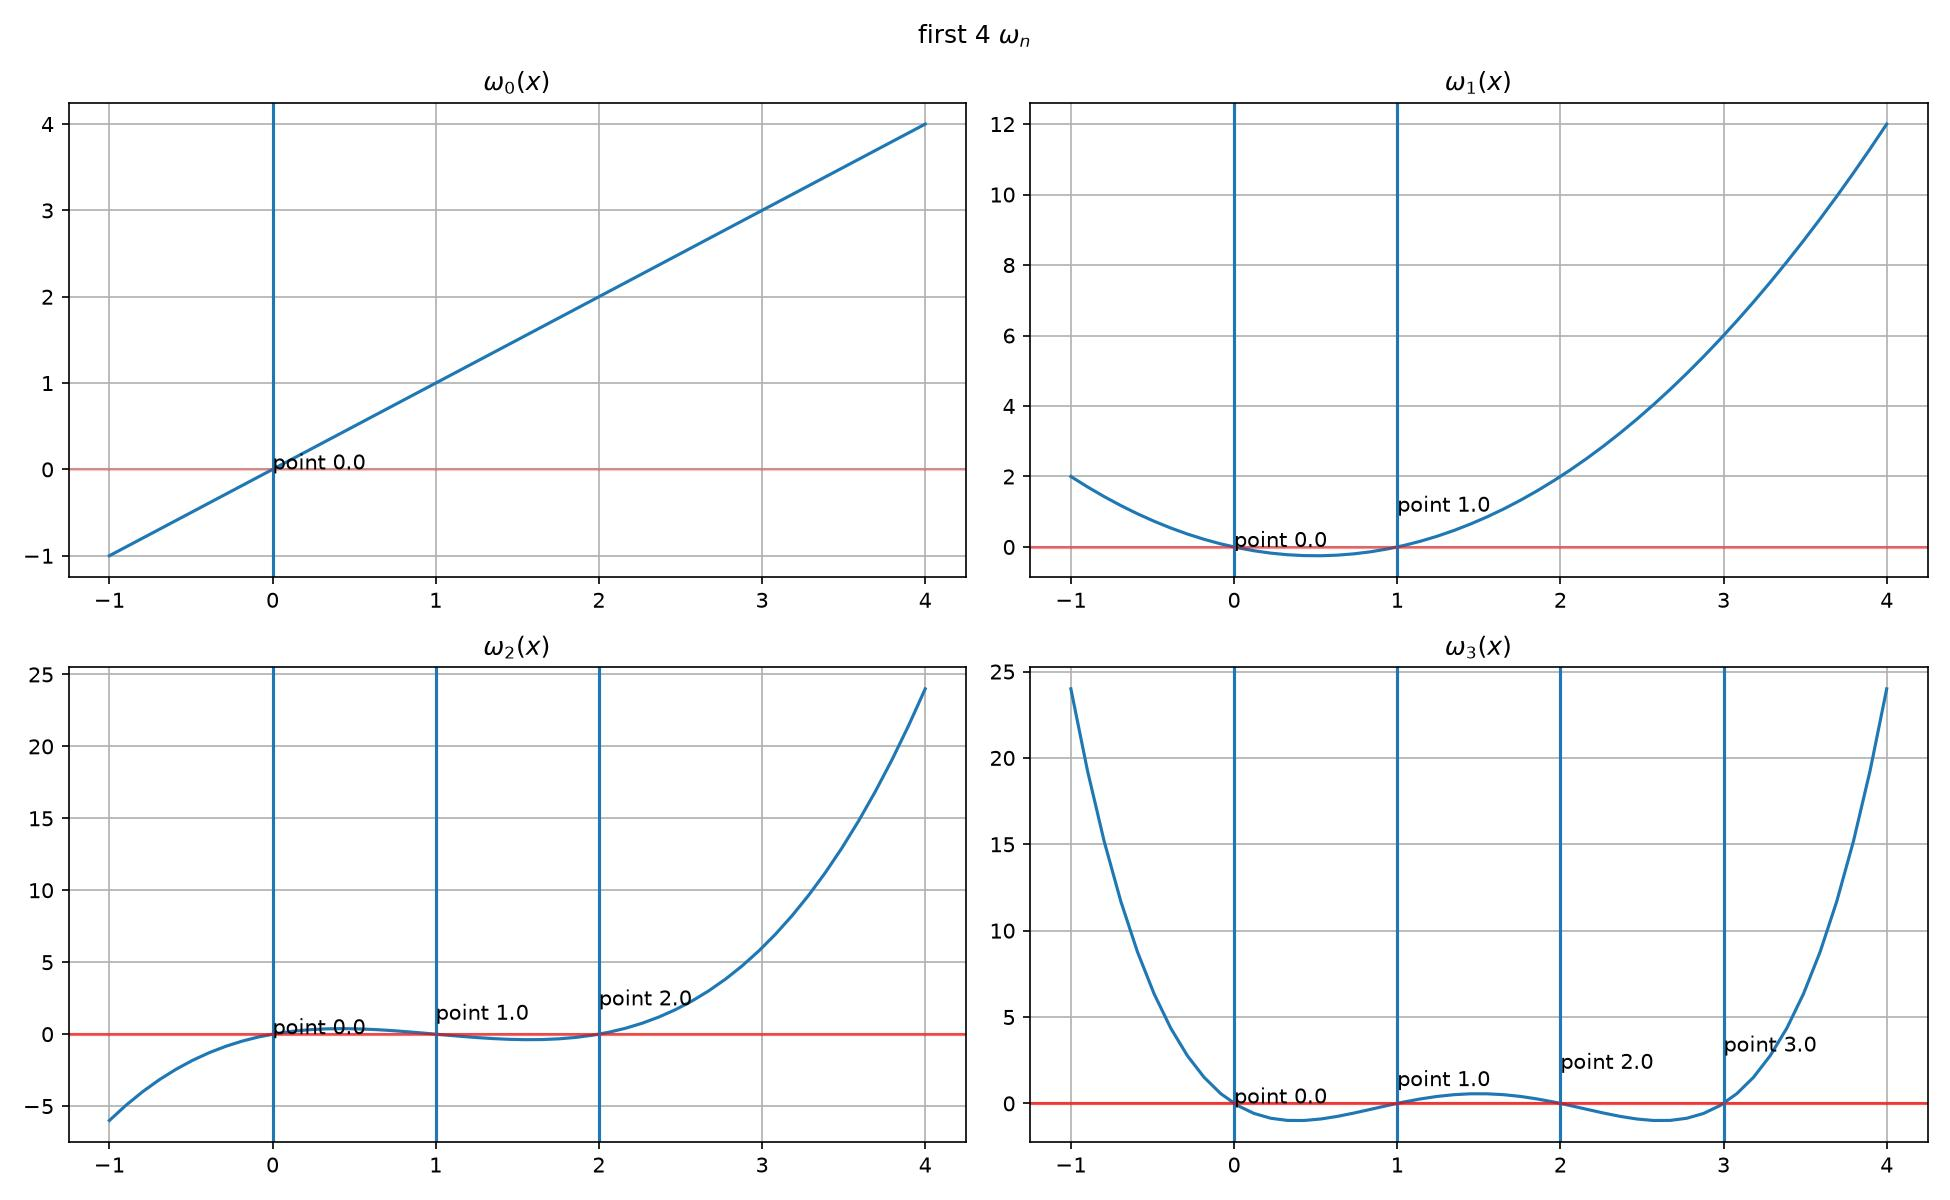
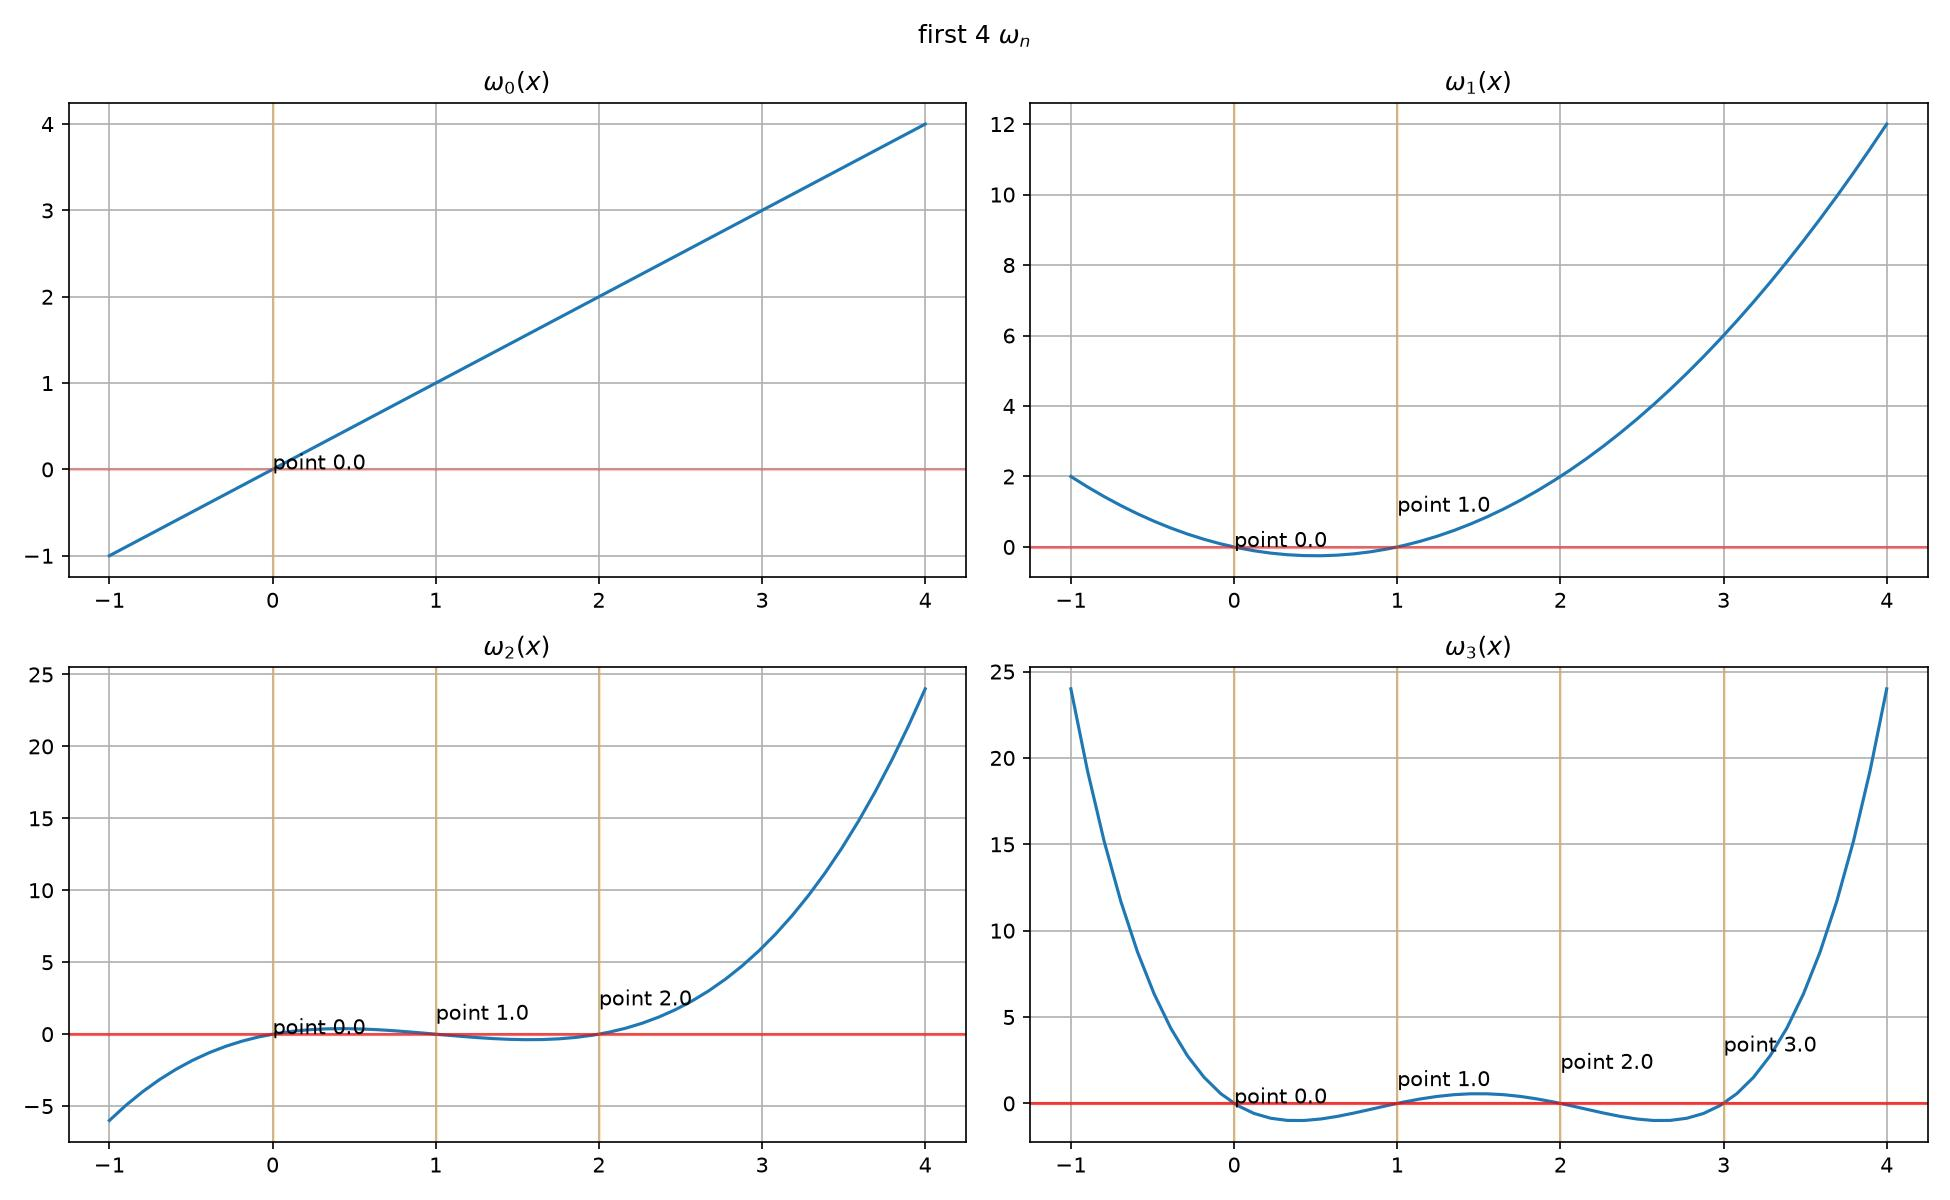
bug fix for plot function

diff --git a/qs.py b/qs.py
@@ -377,7 +377,7 @@ def plot_w(n=4):
     for size,axs in enumerate(ax):
         axs.plot(x,test(x,grid[0:size+1]))
         for i,point in enumerate(grid[:size+1]):
-            axs.axvline(point)
+            axs.axvline(point,color='orange',alpha=0.25)
             axs.axhline(0,color='red',alpha=0.25)
             axs.text(
                 x = point,
@@ -387,10 +387,10 @@ def plot_w(n=4):
         axs.grid()
 
         axs.set_title(fr"$\omega_{size}(x)$")
-        fig.suptitle(rf'first {n} $\omega_n$')
-        plt.tight_layout()
-        plt.savefig(f'iterative_results/w_{n-1}.jpg',dpi=150)
-        plt.show()
+    fig.suptitle(rf'first {n} $\omega_n$')
+    plt.tight_layout()
+    plt.savefig(f'iterative_results/w_{n-1}.jpg',dpi=150)
+    plt.show()
 
 def newton_term(f,x,grid,k):
     """
@@ -441,14 +441,13 @@ def plot_newton(n=6):
     plt.show()
 
 
-plot_newton(8)
+#plot_newton(8)
 
 from itertools import combinations
 
-def lagrange(grid,k):
+def lagrange_e(grid,k):
     """
-    Given a grid of points, return the kth lagrange polynomial
-    Return string polynomial expression in x for evaluation
+    Using symbolic expression, given a grid of points, return the kth second order lagrange polynomial 
     """
     prim = '(x-)'
     omega_n = ''
@@ -480,6 +479,53 @@ def lagrange(grid,k):
     denom = eval(omega_n_p)
     return num / denom
 
-grid = np.arange(5,dtype=float)
-plt.plot(lagrange(grid,3))
-plt.show()
+
+def w_n_prime(x,grid):
+    """
+    Given a grid of points, return w_n'(x)
+    """
+    n = grid.shape[0]
+    if n == 0:
+        return np.zeros_like(x,dtype=float)
+    if n == 1:
+        return np.ones_like(x,dtype=float)
+    else:
+        x_n = grid[-1]
+        grid = grid[:-1]
+        h_n = np.prod(x[:,None]-grid,axis=1)
+        return h_n + (x-x_n)*w_n_prime(x,grid)
+
+
+
+def plot_w_prime(n=4):
+    """
+    Plot the polynomial omega_{k}' for k <= n-1
+    """
+    if n % 2 != 0:
+        print('Not divisible by 2')
+        return 0
+    grid = np.arange(n,dtype=float)
+    test = lambda x,grid : w_n_prime(x,grid)
+    x = np.linspace(-1,n)
+    fig, ax = plt.subplots(2,2,figsize=(13,8))
+    ax = ax.flatten()
+    for size,axs in enumerate(ax):
+        axs.plot(x,test(x,grid[0:size+1]))
+        for i,point in enumerate(grid[:size+1]):
+            axs.axvline(point,color='orange',alpha=0.5)
+            axs.axhline(0,color='red',alpha=0.25)
+            axs.text(
+                x = point,
+                y = i,
+                s = f"point {np.round(point,4)}"
+            )
+        axs.grid()
+        axs.set_title(fr"$\omega_{size}(x)$")
+    fig.suptitle(rf'first {n} $\omega_n$')
+    plt.tight_layout()
+    plt.savefig(f'iterative_results/w_{n-1}_prime.jpg',dpi=150)
+    plt.show()
+    return 1
+
+plot_w_prime(4)
+
